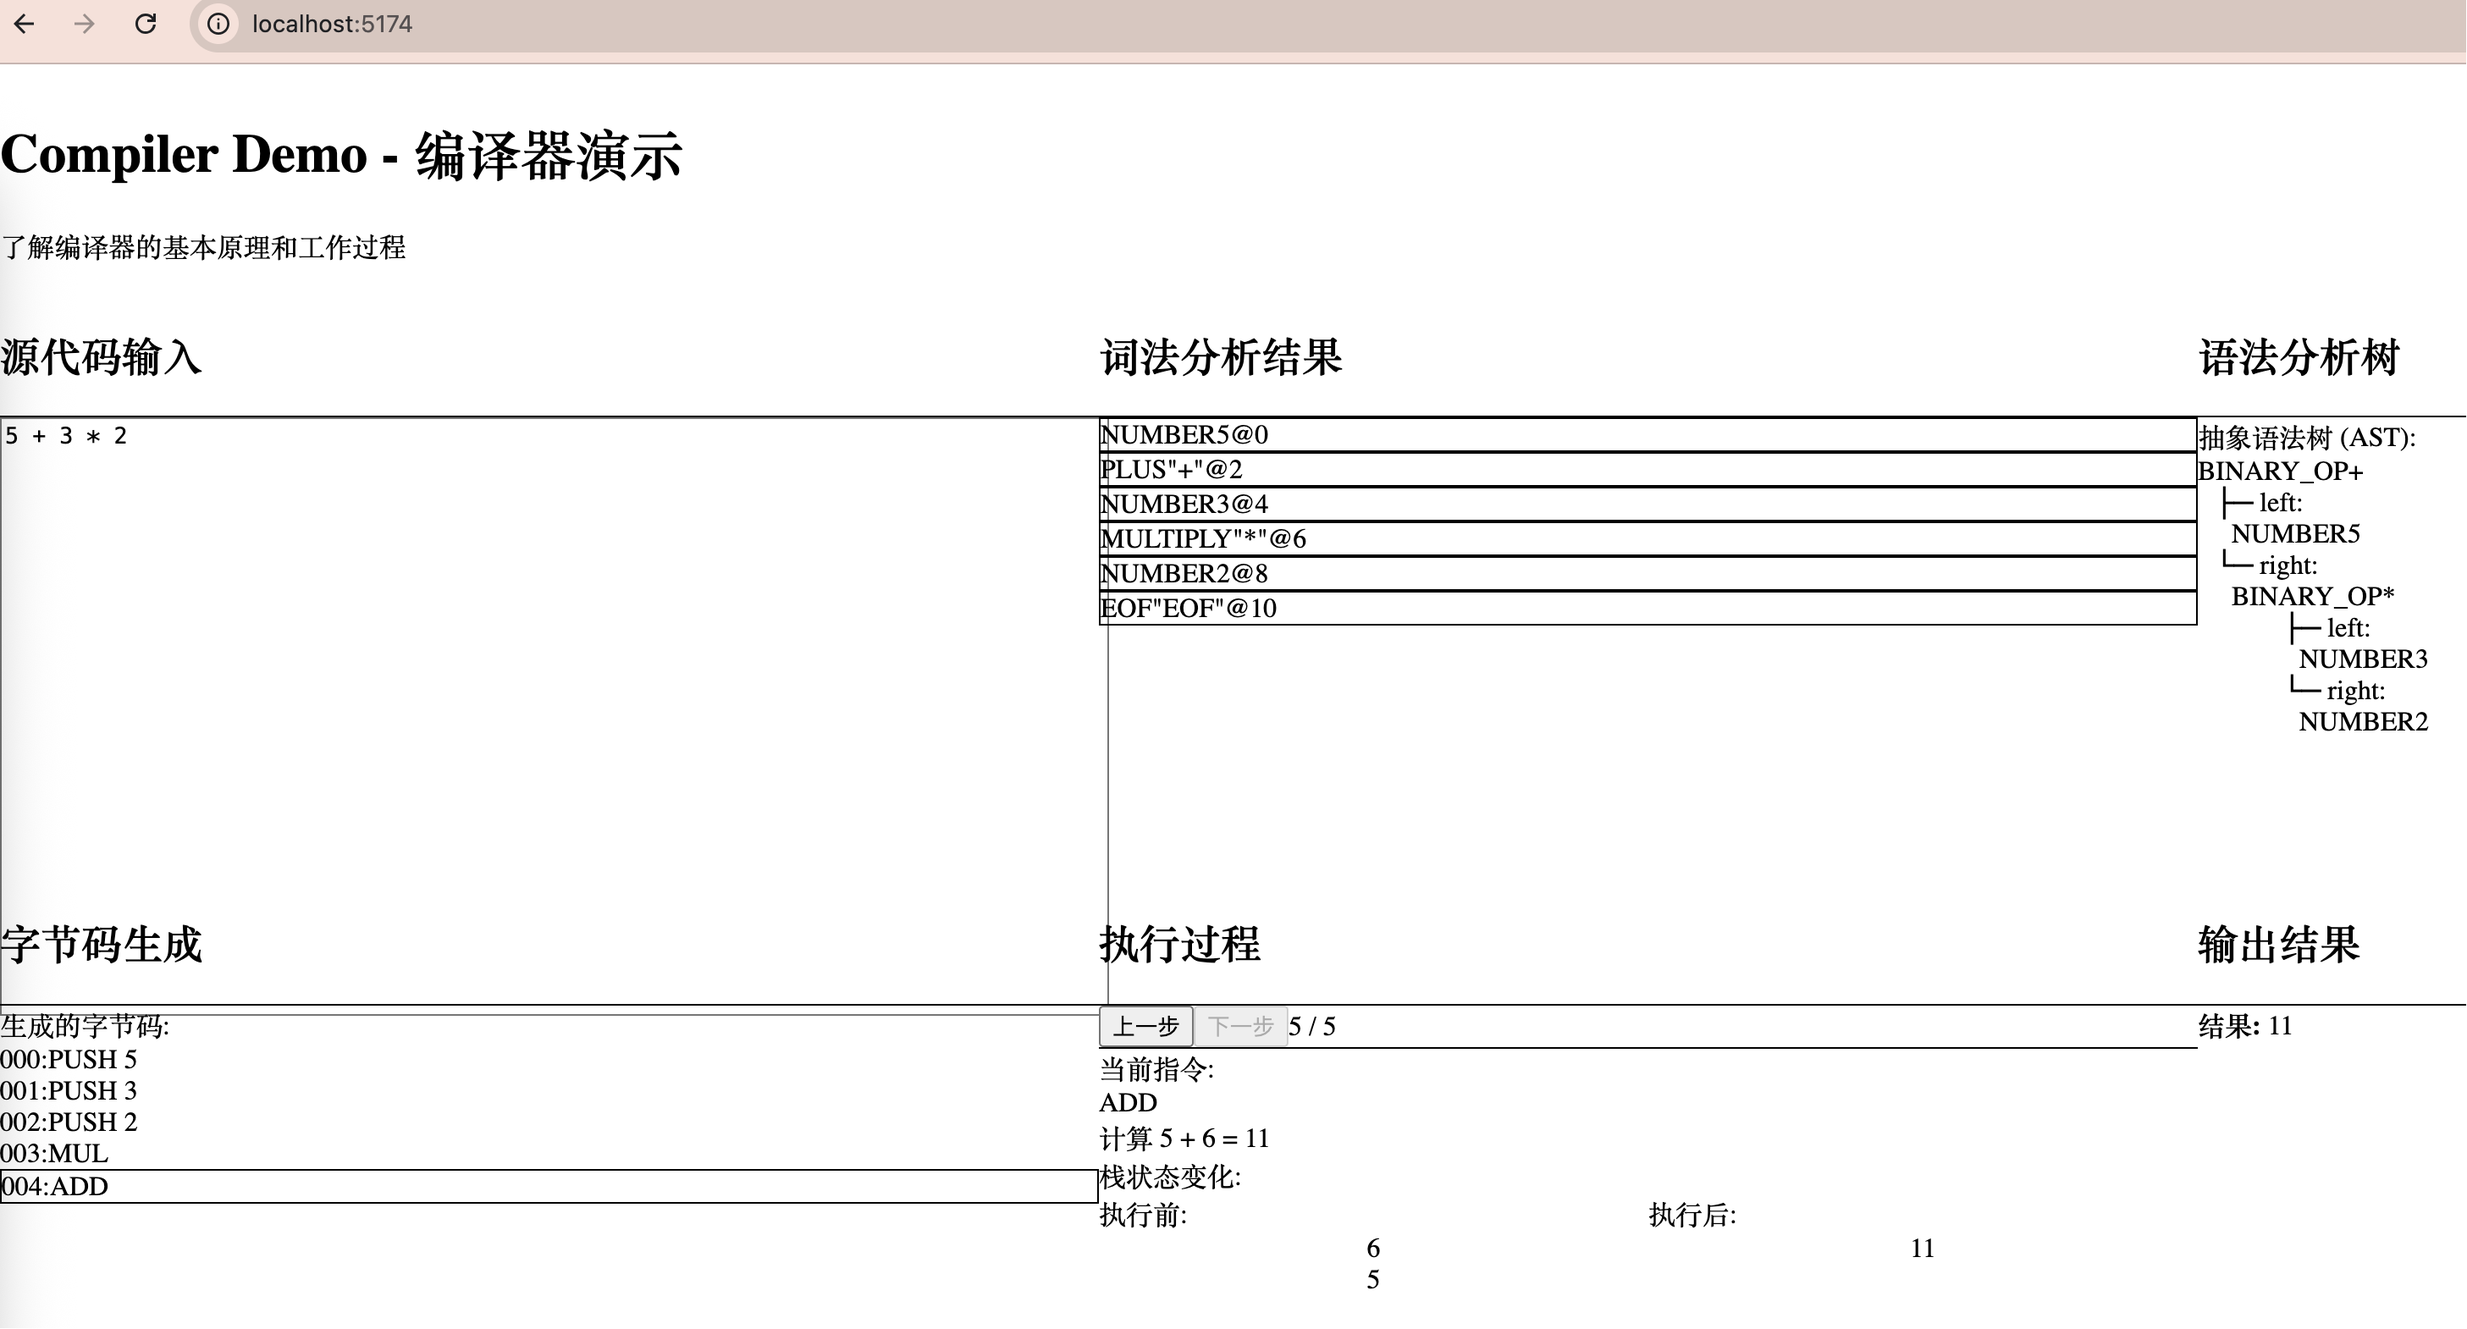
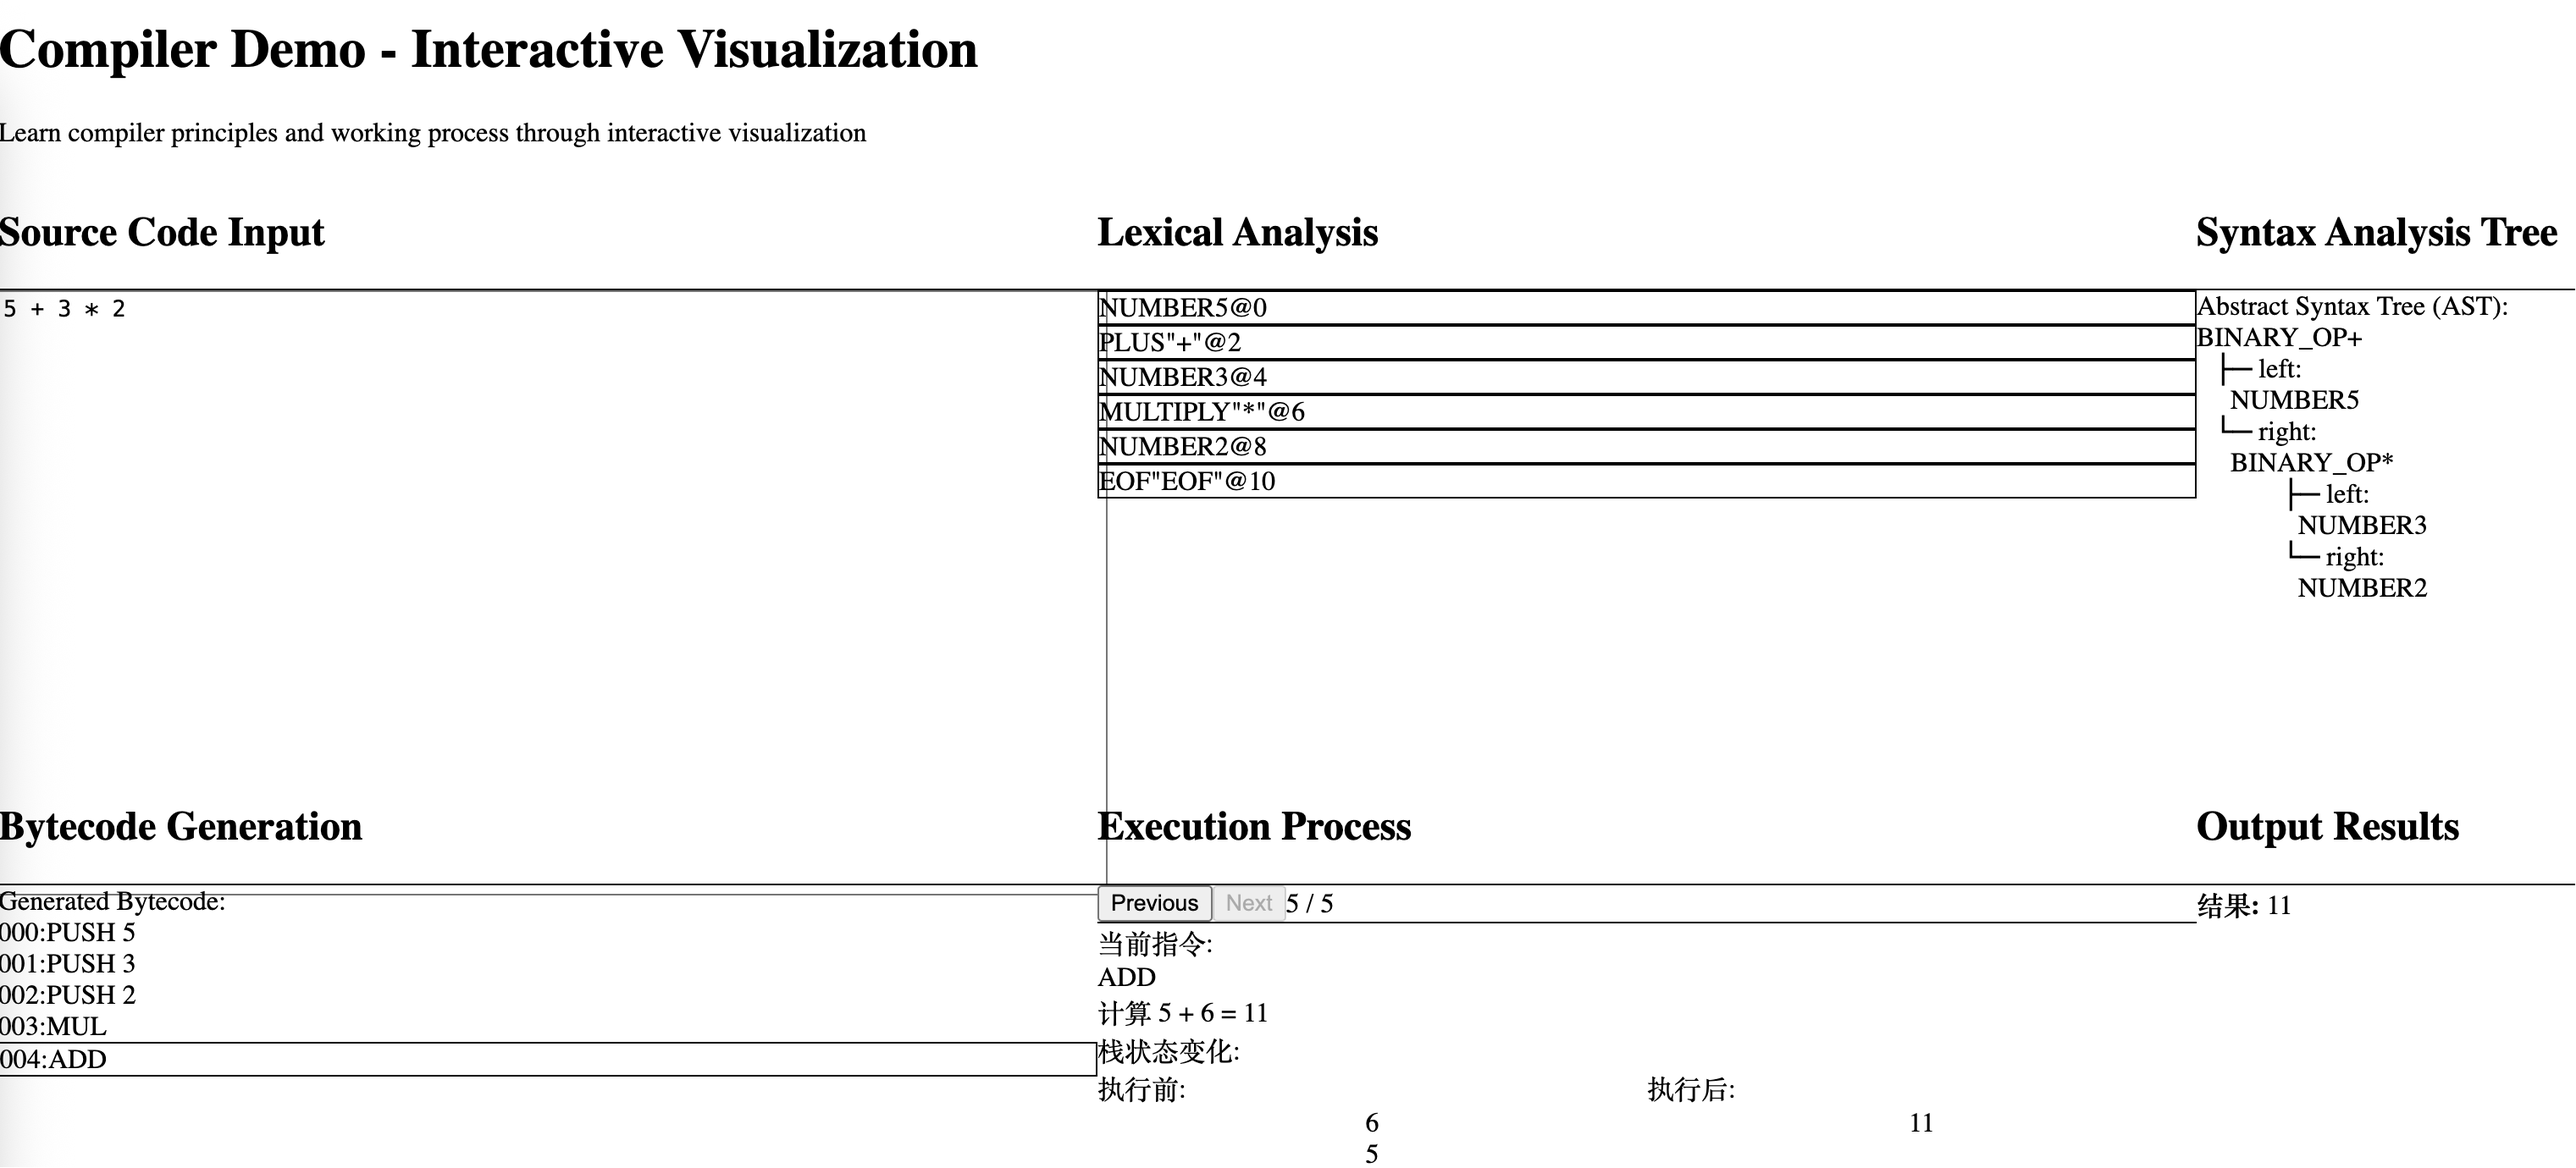
english interface

diff --git a/src/App.tsx b/src/App.tsx
@@ -74,35 +74,35 @@ function App() {
   return (
     <div className="h-screen bg-gray-100 flex flex-col">
       <header className="bg-blue-600 text-white p-4">
-        <h1 className="text-2xl font-bold">Compiler Demo - 编译器演示</h1>
-        <p className="text-blue-100">了解编译器的基本原理和工作过程</p>
+        <h1 className="text-2xl font-bold">Compiler Demo - Interactive Visualization</h1>
+        <p className="text-blue-100">Learn compiler principles and working process through interactive visualization</p>
       </header>
 
       <main className="flex-1 grid grid-cols-3 grid-rows-3 gap-4 p-4 overflow-hidden">
         <div className="bg-white rounded-lg shadow-md">
           <div className="bg-gray-50 px-4 py-2 border-b">
-            <h2 className="font-semibold text-gray-700">源代码输入</h2>
+            <h2 className="font-semibold text-gray-700">Source Code Input</h2>
           </div>
           <CodeEditor value={code} onChange={handleCodeChange} />
         </div>
 
         <div className="bg-white rounded-lg shadow-md">
           <div className="bg-gray-50 px-4 py-2 border-b">
-            <h2 className="font-semibold text-gray-700">词法分析结果</h2>
+            <h2 className="font-semibold text-gray-700">Lexical Analysis</h2>
           </div>
           <TokenDisplay tokens={result.tokens} error={result.error} />
         </div>
 
         <div className="bg-white rounded-lg shadow-md">
           <div className="bg-gray-50 px-4 py-2 border-b">
-            <h2 className="font-semibold text-gray-700">语法分析树</h2>
+            <h2 className="font-semibold text-gray-700">Syntax Analysis Tree</h2>
           </div>
           <ASTDisplay ast={result.ast} />
         </div>
 
         <div className="bg-white rounded-lg shadow-md">
           <div className="bg-gray-50 px-4 py-2 border-b">
-            <h2 className="font-semibold text-gray-700">字节码生成</h2>
+            <h2 className="font-semibold text-gray-700">Bytecode Generation</h2>
           </div>
           <BytecodeDisplay
             bytecode={result.bytecode}
@@ -113,7 +113,7 @@ function App() {
 
         <div className="bg-white rounded-lg shadow-md">
           <div className="bg-gray-50 px-4 py-2 border-b">
-            <h2 className="font-semibold text-gray-700">执行过程</h2>
+            <h2 className="font-semibold text-gray-700">Execution Process</h2>
           </div>
           <ExecutionDisplay
             execution={result.execution}
@@ -124,7 +124,7 @@ function App() {
 
         <div className="bg-white rounded-lg shadow-md">
           <div className="bg-gray-50 px-4 py-2 border-b">
-            <h2 className="font-semibold text-gray-700">输出结果</h2>
+            <h2 className="font-semibold text-gray-700">Output Results</h2>
           </div>
           <OutputDisplay result={result.result} error={result.error} />
         </div>

diff --git a/src/components/ExecutionDisplay.tsx b/src/components/ExecutionDisplay.tsx
@@ -12,7 +12,7 @@ export function ExecutionDisplay({ execution, currentStep = 0, onStepChange }: E
     return (
       <div className="p-4 h-full">
         <div className="text-gray-500 text-sm">
-          等待执行过程...
+          Waiting for execution process...
         </div>
       </div>
     );
@@ -23,21 +23,21 @@ export function ExecutionDisplay({ execution, currentStep = 0, onStepChange }: E
 
   return (
     <div className="p-4 h-full flex flex-col">
-      {/* 控制按钮 */}
+      {/* Control buttons */}
       <div className="flex items-center space-x-2 mb-4 pb-2 border-b">
         <button
           onClick={() => onStepChange?.(Math.max(0, currentStep - 1))}
           disabled={currentStep === 0}
           className="px-2 py-1 bg-blue-500 text-white rounded disabled:bg-gray-300 text-xs"
         >
-          上一步
+          Previous
         </button>
         <button
           onClick={() => onStepChange?.(Math.min(maxStep, currentStep + 1))}
           disabled={currentStep === maxStep}
           className="px-2 py-1 bg-blue-500 text-white rounded disabled:bg-gray-300 text-xs"
         >
-          下一步
+          Next
         </button>
         <span className="text-xs text-gray-600">
           {currentStep + 1} / {execution.steps.length}

diff --git a/src/components/BytecodeDisplay.tsx b/src/components/BytecodeDisplay.tsx
@@ -21,7 +21,7 @@ export function BytecodeDisplay({ bytecode, execution, currentStep = 0 }: Byteco
       <div className="text-sm">
         {bytecode.length > 0 ? (
           <div className="space-y-1">
-            <div className="mb-2 text-gray-600 font-semibold">生成的字节码:</div>
+            <div className="mb-2 text-gray-600 font-semibold">Generated Bytecode:</div>
             {bytecode.map((instruction, index) => (
               <div
                 key={index}
@@ -40,7 +40,7 @@ export function BytecodeDisplay({ bytecode, execution, currentStep = 0 }: Byteco
           </div>
         ) : (
           <div className="text-gray-500 text-sm">
-            等待代码生成...
+            Waiting for code generation...
           </div>
         )}
       </div>

diff --git a/src/components/ASTDisplay.tsx b/src/components/ASTDisplay.tsx
@@ -59,12 +59,12 @@ export function ASTDisplay({ ast }: ASTDisplayProps) {
     <div className="p-4 h-full overflow-auto">
       {ast ? (
         <div className="text-sm">
-          <div className="mb-2 text-gray-600 font-semibold">抽象语法树 (AST):</div>
+          <div className="mb-2 text-gray-600 font-semibold">Abstract Syntax Tree (AST):</div>
           {renderASTNode(ast)}
         </div>
       ) : (
         <div className="text-gray-500 text-sm">
-          输入表达式查看语法树...
+          Enter expression to view syntax tree...
         </div>
       )}
     </div>

diff --git a/src/components/CodeEditor.tsx b/src/components/CodeEditor.tsx
@@ -10,7 +10,7 @@ export function CodeEditor({ value, onChange }: CodeEditorProps) {
         className="w-full h-full border rounded-md p-2 font-mono text-sm resize-none focus:outline-none focus:ring-2 focus:ring-blue-500"
         value={value}
         onChange={(e) => onChange(e.target.value)}
-        placeholder="输入数学表达式，例如: 5 + 3 * 2"
+        placeholder="Enter mathematical expression, e.g.: 5 + 3 * 2"
       />
     </div>
   );

diff --git a/src/components/TokenDisplay.tsx b/src/components/TokenDisplay.tsx
@@ -10,7 +10,7 @@ export function TokenDisplay({ tokens, error }: TokenDisplayProps) {
     return (
       <div className="p-4 h-full">
         <div className="text-red-600 text-sm">
-          <strong>错误:</strong> {error}
+          <strong>Error:</strong> {error}
         </div>
       </div>
     );
